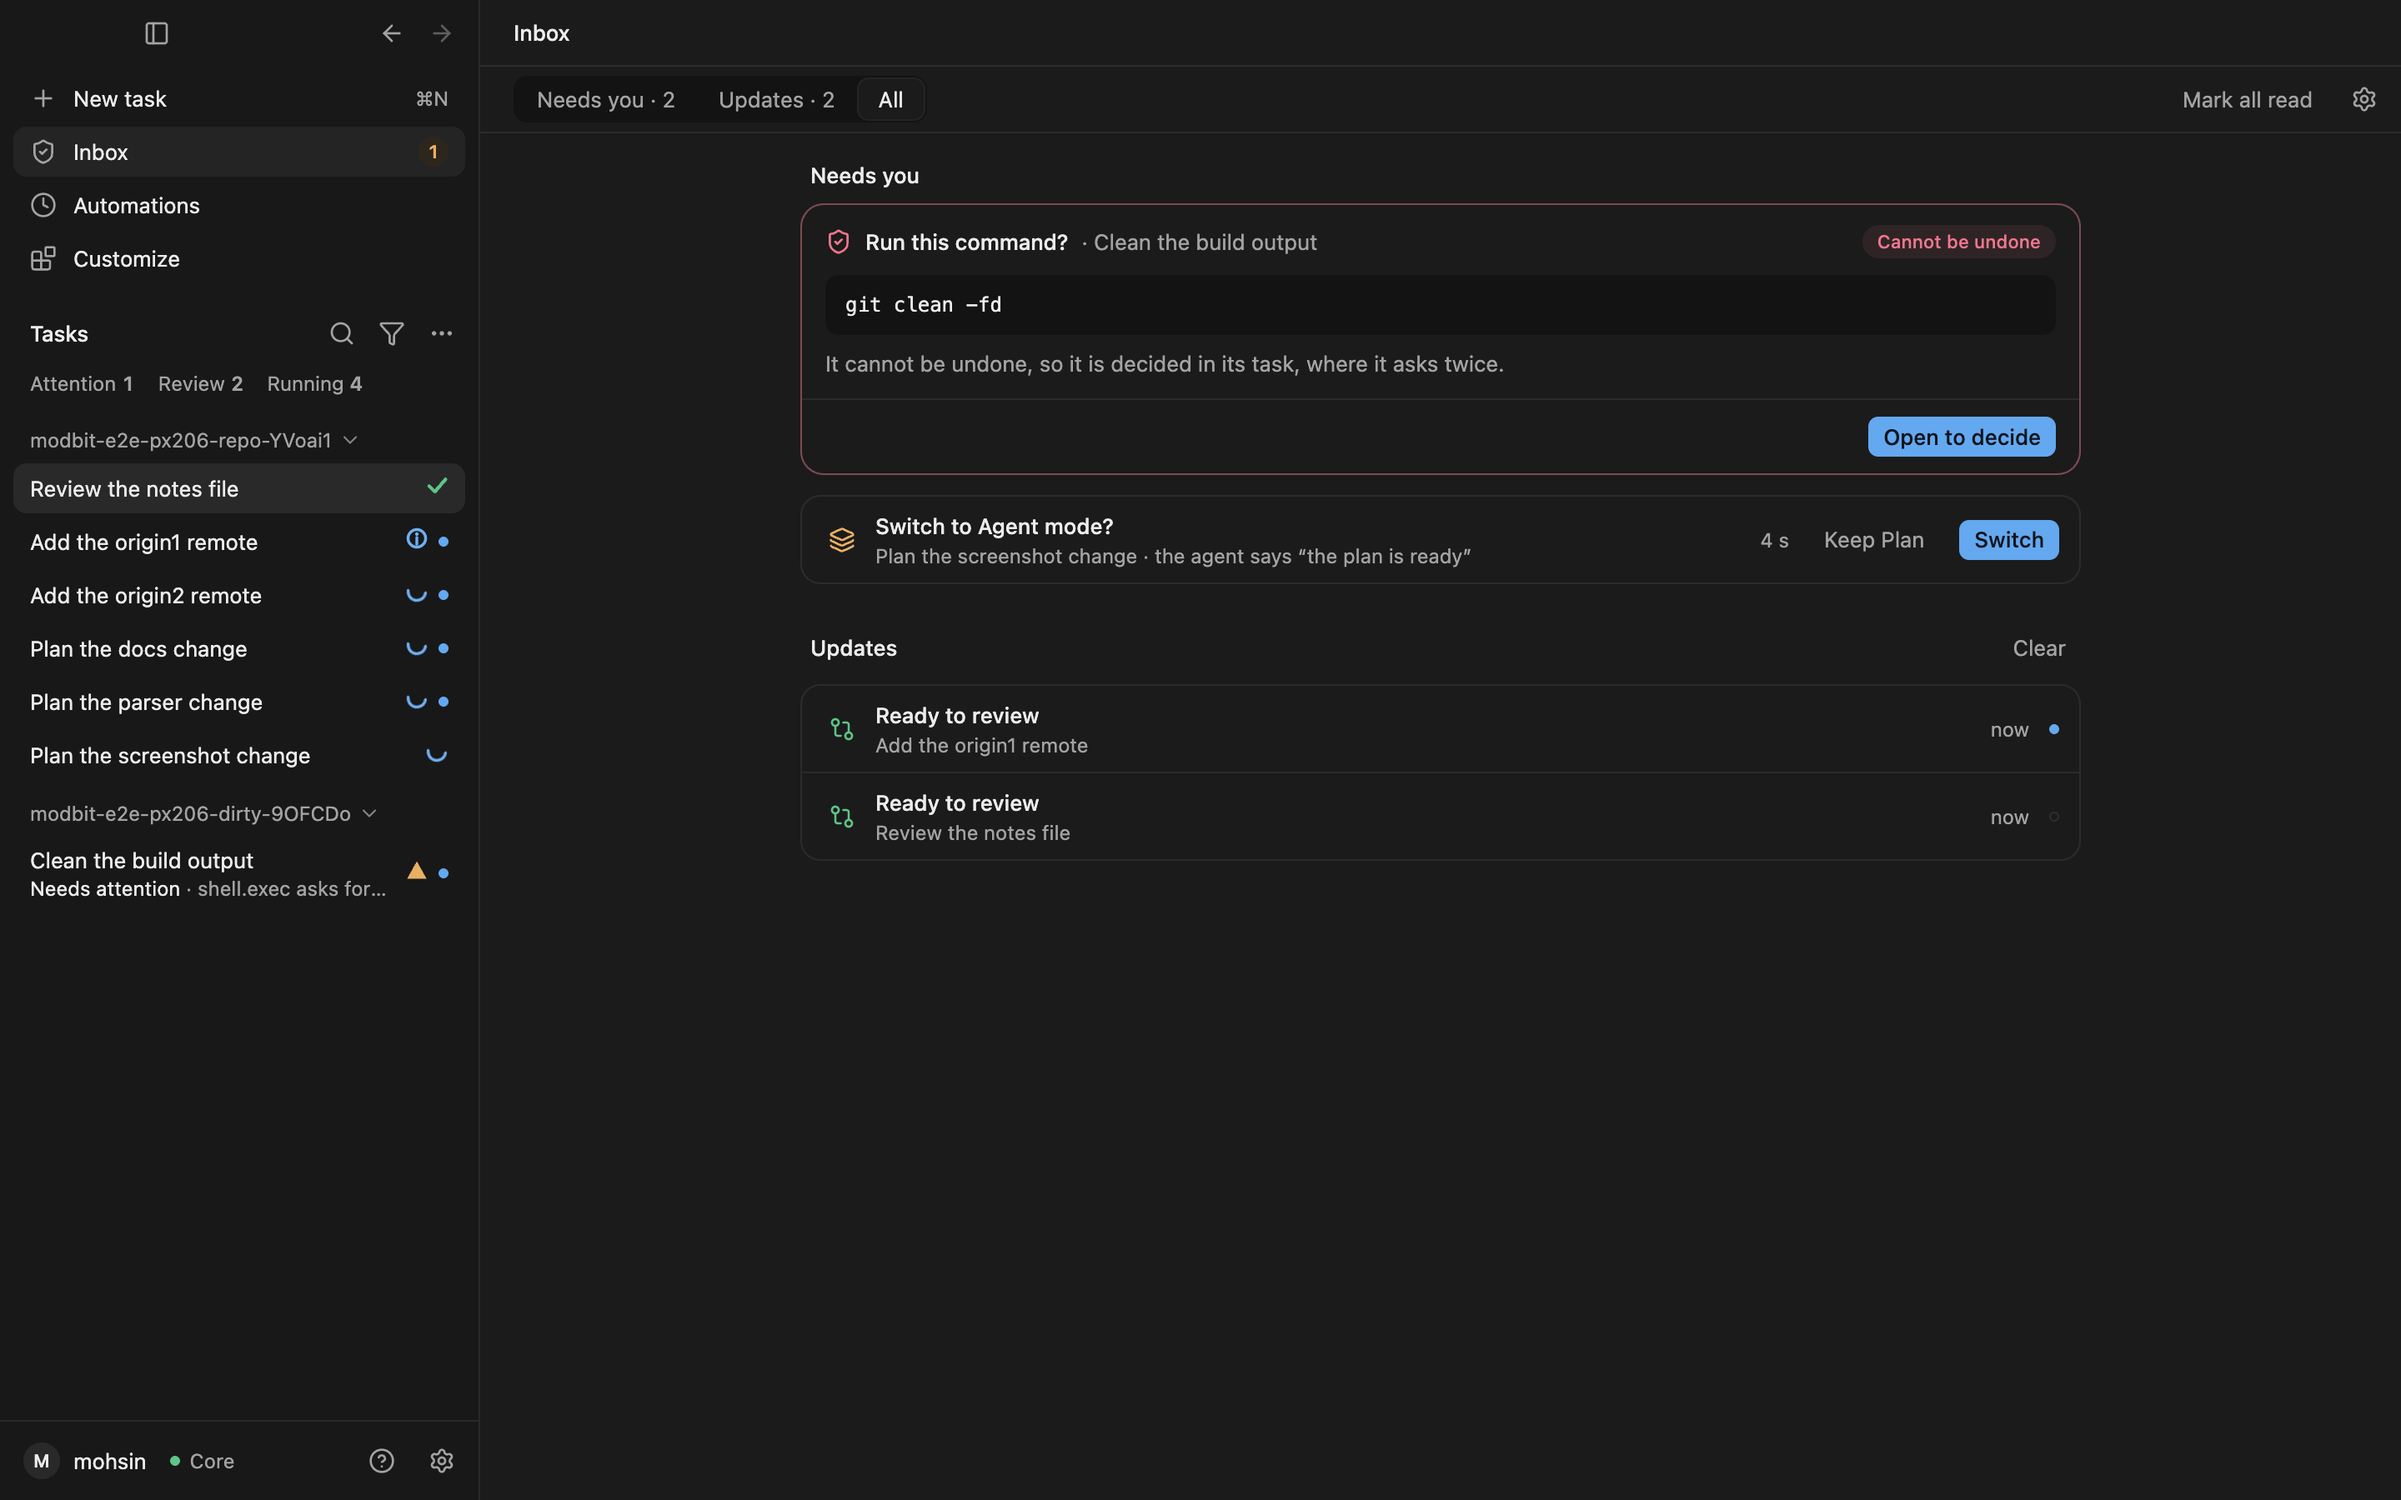
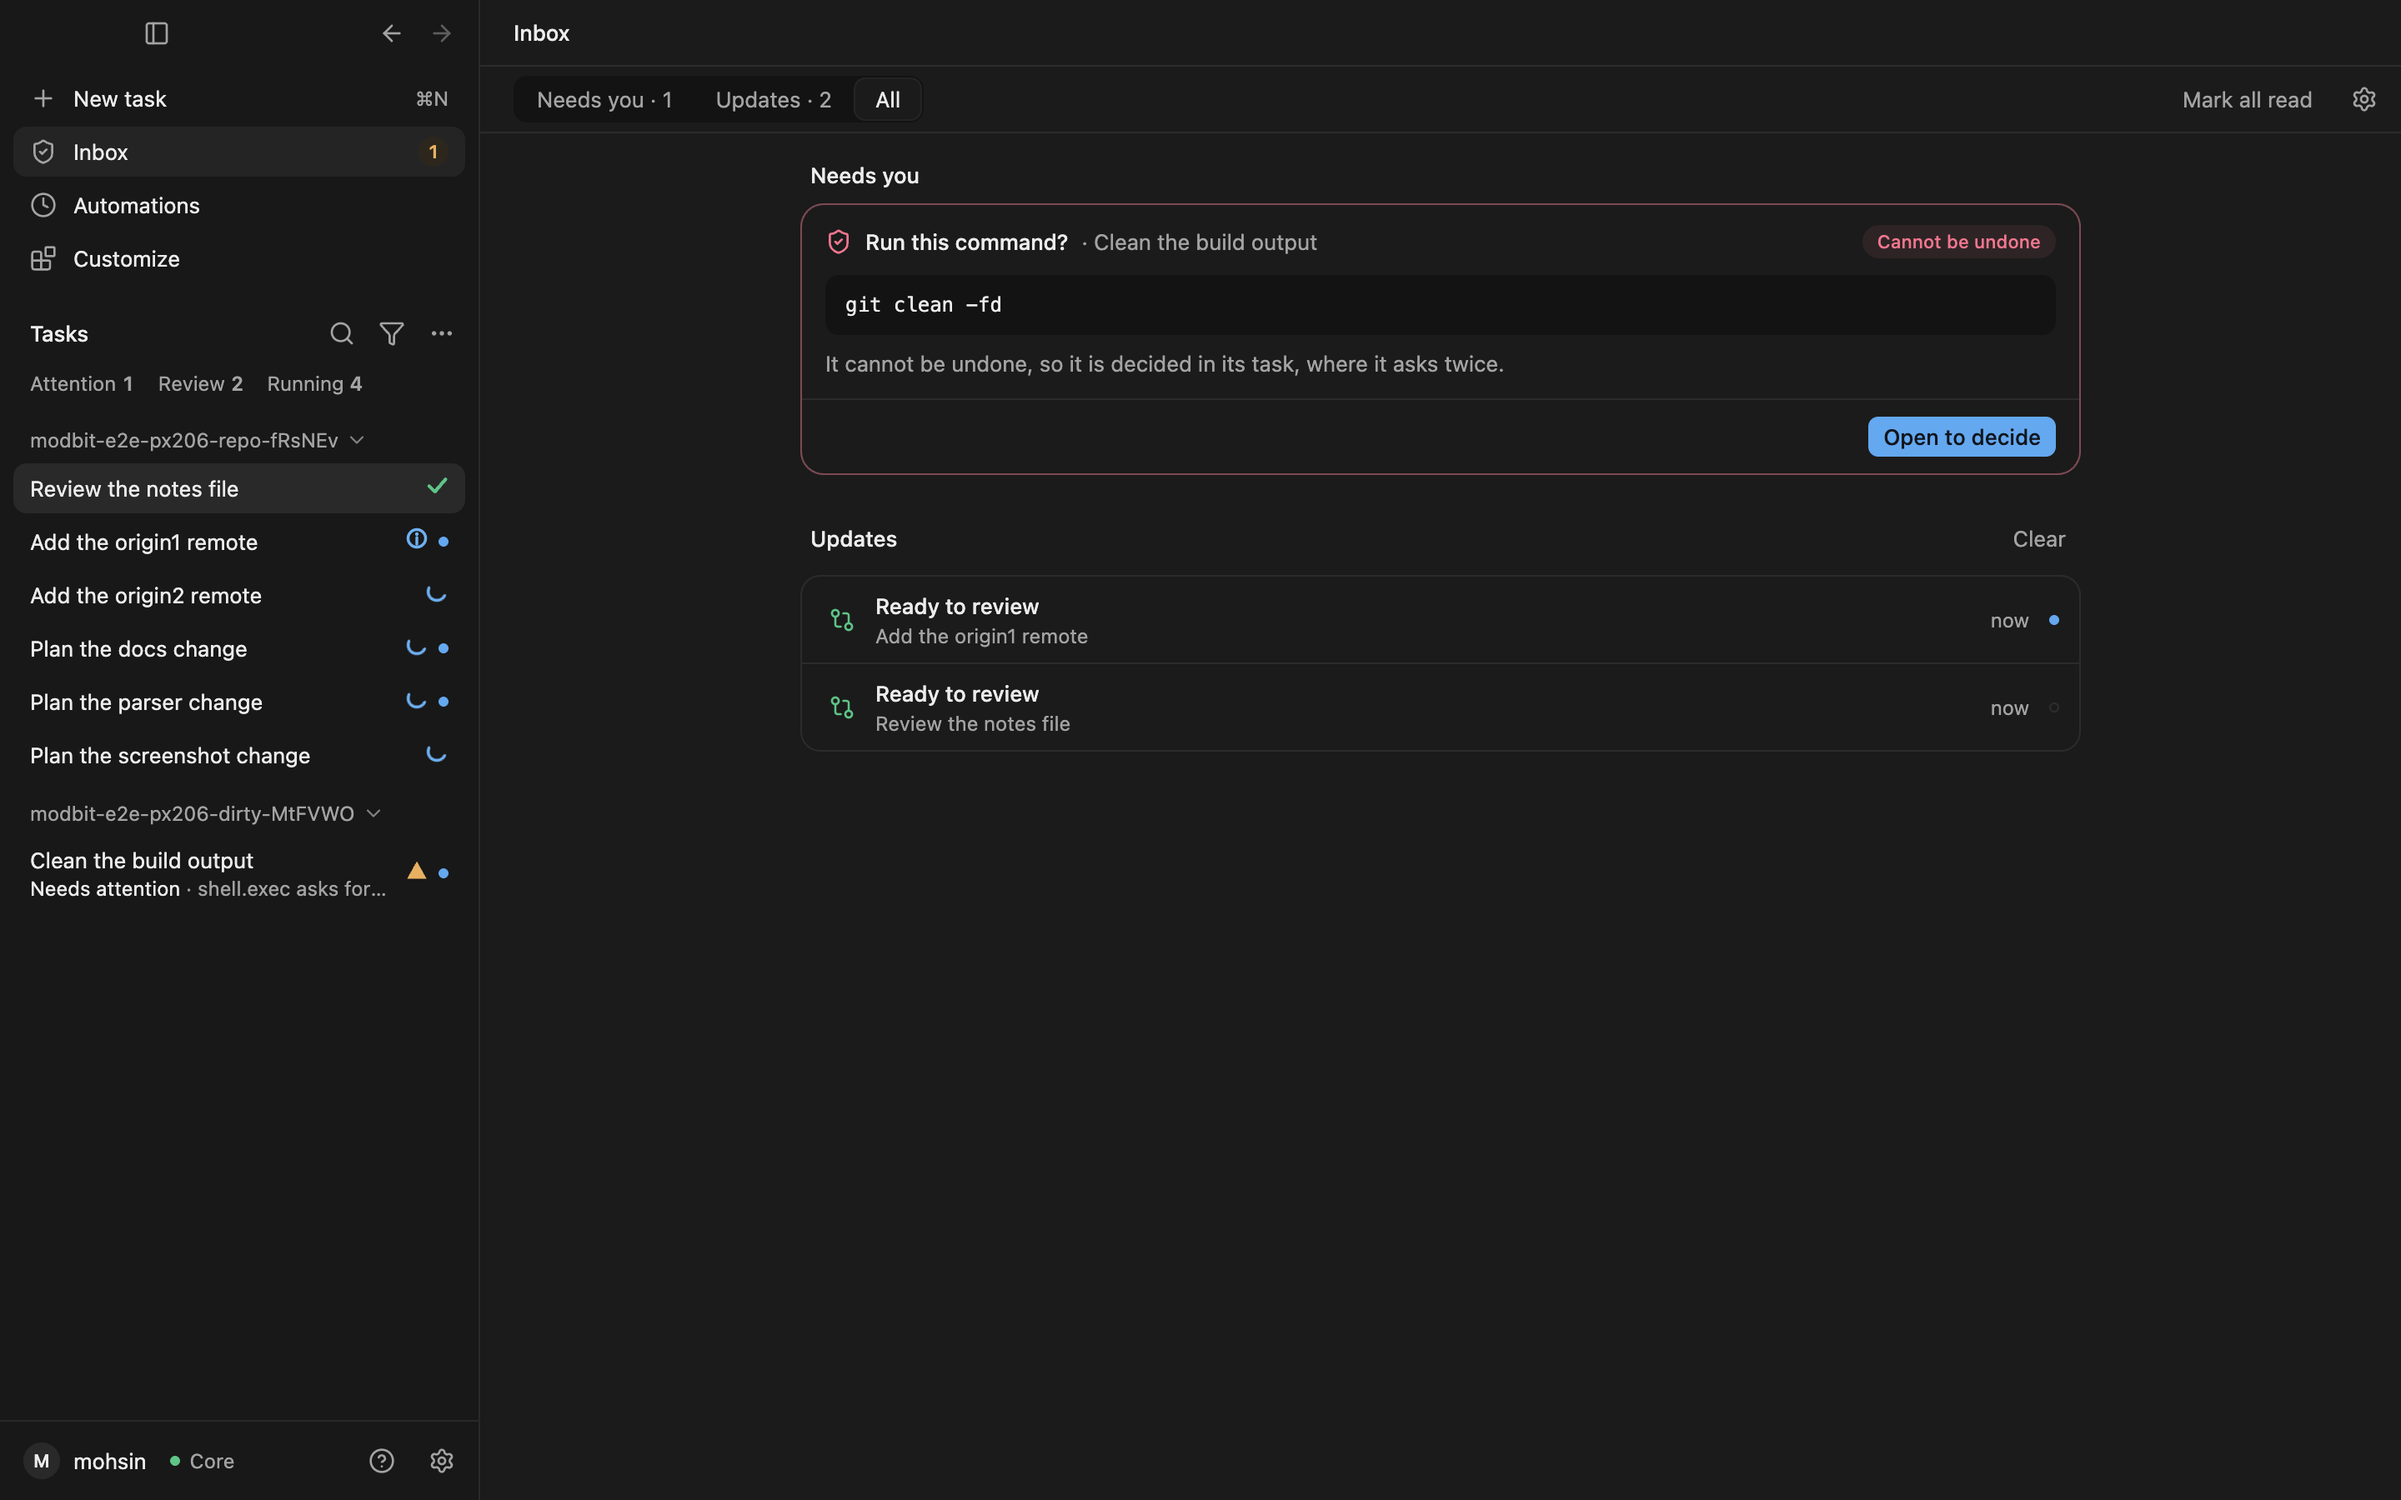
PX-206: owner's review recorded; post-restart count check waits for agreement; screenshots retaken
Decision-Record: docs/decisions/DR-PX-2026-11-11-021-measured-workspace.md

diff --git a/apps/desktop/e2e/px-206-inbox.spec.ts b/apps/desktop/e2e/px-206-inbox.spec.ts
@@ -495,7 +495,7 @@ test("PX-206 Inbox: Needs you decides approvals and proposals, a destructive eff
     writeFileSync(mutated, JSON.stringify({ ...onDisk, entries: onDisk.entries.map((e, i) => (i === 0 ? { ...e, text: SAID } : e)) }));
     expect(recordDrift(mutated, [SAID, SUMMARY])).toEqual(["an update holds text beside its ids, title and time", `the record holds transcript text: "${SAID}"`]);
     // After the restart the one count still holds (the badge's mutation is retained at the proposals above).
-    await expectNeeds(page, sid, await page.locator('[data-testid="inbox"] [data-testid="attention-item"]').count());
+    await expect.poll(() => countDrift(page, sid), { timeout: 30_000 }).toEqual([]);
     // A control nobody proves fails the census.
     await page.getByTestId("inbox").evaluate((el) => {
       const b = document.createElement("button");

diff --git a/evidence/m10/PX-206/TASK_CARD.md b/evidence/m10/PX-206/TASK_CARD.md
@@ -29,11 +29,21 @@
 - **Inbox (`renderer/approvals/inbox.tsx`, rewritten; `inbox-model.ts`, `use-inbox.ts` new).** A head at the bar's height (`--mb-top-bar`): the view switch Needs you · N / Updates · N / All, Mark all read (disabled with its reason when every update is read) and Notification settings (Settings at the notification preferences). One centred column (`--mb-column`).
   - Needs you: each pending approval of the session as a card: the question in words ("Run this command?"), the task's title (opens the task), the effect in words ("Protected change", "Cannot be undone"), the exact command, why it asks; Skip and Allow once through `decideFromList(…, "inbox")`, bound to the intent hash shown. What a list may not decide shows its reason and Open to decide. Then each pending mode proposal across the session's live tasks (read from the Core about once a second while Inbox is open; the Core gives 15 s): "Switch to Agent mode?", the task, the agent's words quoted, the seconds left, Keep <mode> and Switch through `decideProposal` (the dock now uses it too: one answer path). Then every other item the Core lists, in plain words (`attentionWords`), opening its task. Approvals are not repeated from the attention list.
   - Updates: rows with the kind in words ("Ready to review", "Child task finished", "Automation ran", "Task failed"), the task's title, a short time ("now", "14m", "6h", "Yesterday", a date; the full time in the title and the accessible name) and a read dot; opening one marks it read through the Core, then opens its task. Clear asks once, inline.
-  - Counts: Inbox's count in the task list is the Core's attention count (`inboxCount`: tasks with an item in the Core's attention view; was the store's column). Needs you counts the Core's approvals, its other items and its pending proposals. Updates counts main's record.
+  - Counts: one number, computed once (`approvals/use-needs-you.ts`, `needsYouCount`), is both the task list's Inbox badge and "Needs you · N", and it is the number of rows Needs you draws (see the owner's review below). Updates counts main's record.
 - **Notification click (`state/use-app.ts`).** `onNotificationOpen` opens the task (closing a review over it) or Inbox.
 - **Styles (`styles.ts`).** Inbox's rules use tokens only (no font size in px; `measured-css.test.ts` passes).
 
 No protocol, Core, Rust, CSP or `webPreferences` change. No locked file changed (no `docs/` or `graph/` edit), so no Decision-Record trailer was required for a locked file; commits carry DR-021's trailer as asked.
+
+## Owner's review, 2026-11-17: "Fix the count first"
+
+- **Finding.** The owner saw the badge and the tab disagree side by side: the badge was the Core's attention count (tasks with an attention item), the tab every Needs you item including mode proposals (`inbox-needs-you-comfortable-dark.png` showed 3 against 4, `inbox-updates-read-unread-comfortable-light.png` 1 against 2). It read as a bug.
+- **Change.** The badge now shows exactly the number of items in Needs you. `useNeedsYou` (new, `approvals/use-needs-you.ts`) is called once in the shell; it reads the Core's pending approvals of the session, the pending mode proposals of its live tasks and takes the Core's attention items, and `needsYouCount` counts them. The badge (`attentionCount={needsYou.count}`) and Inbox (`needsYou` prop: its rows and its tab) use that one result, so they cannot drift. No input is the renderer's task store. `inboxCount` (the task count) was removed.
+- **How Needs you lists, and so counts.** One row per pending approval (from the Core's approval list, with what it will do); the Core's attention items of kind APPROVAL are those same approvals and are not listed or counted again; one row per other attention item (a question, a stall, a failure, a restart …), even when its task also has an approval (they are different things to do); one row per pending mode proposal. The count is the rows.
+- **Reads.** The proposals are now read in the shell, on every task event and every 5 s (every second while Inbox is open), so the badge includes them whatever page is shown.
+- **Proof.** In `px-206-inbox.spec.ts` `countDrift` now requires the badge, the tab and the number of rows drawn to equal each other and the Core's own reads at the same moment (`expectNeeds`). With three approvals (one destructive) and two proposals pending all are 5; Switch makes 4, Keep 3, Skip 2, Allow once 1, each step checked. Retained mutation: the badge set to the task count the Core's attention view gives (3) while Needs you holds 5: `countDrift` reports exactly "Inbox's badge is 3; Needs you holds 5". In `inbox-model.test.ts` the old task count gives 2 where Needs you holds 3 rows, and a stall and a question on tasks that also have approvals each count as their own rows. The screenshots were retaken (all twenty, every variant): the badge equals the tab in each.
+- **Runs.** Unit: `@modbit/desktop` 448 of 448 after the merge of origin/main. Whole desktop suite once (local, macOS arm64): 216 passed, 1 failed, 3 skipped; the failure was this spec's own post-restart check, which read the expected count from the page before Inbox had loaded (fixed: it waits until the badge, the tab, the rows and the Core agree). Then `px-206-inbox.spec.ts` 1 of 1 four times, and `task-list`, `attention`, `keyboard` and `awl` specs 6 of 6.
+- **Existing assertions.** `task-list.spec.ts:326` (badge = one waiting task with one approval) and `attention.spec.ts:107` (badge "1" for one capacity item) are unchanged and hold: there, items and tasks are the same number.
 
 ## Left out, and why
 
@@ -104,5 +114,5 @@ None weakened. Each moved with its fact:
 
 - **A destructive effect allowed from Inbox**: in the spec the destructive approval is resolved through the bridge as a list that allowed it would; `destructiveDecidedFromInbox` reports "the destructive effect is no longer pending: it was decided while Inbox showed it". In `inbox-model.test.ts`, `decideFromList(…, "inbox")` on a Destructive effect (approve and skip) is refused with `NOT_FROM_A_LIST` and nothing reaches the bridge.
 - **An update that holds transcript text**: a copy of the record with `text` (the assistant's words) beside an entry: `recordDrift` reports "an update holds text beside its ids, title and time" and "the record holds transcript text". In `inbox-record.test.ts` a header carrying the assistant's last line leaves nothing of it in the record, and a file carrying `text`/`reason` is read back without them.
-- **A count taken from the store**: in the spec the drawn count is replaced with one from the renderer's own list; `countDrift` reports "Inbox's count is N; the Core's attention count is M". In `inbox-model.test.ts` a store whose column says a task needs attention while the Core lists nothing gives 1 from the store and 0 from `inboxCount`.
+- **A count that is not Needs you's** (the owner's review): in the spec, with five items pending, the badge is set to the Core's task count (3); `countDrift` reports "Inbox's badge is 3; Needs you holds 5". In `inbox-model.test.ts` the task count gives 2 where Needs you holds 3, and a store whose column says a task needs attention while the Core lists nothing gives 1 where `needsYouCount` gives 0.
 - **A control that does nothing**: a "Snooze" button added to the head; `inertControls` reports it.
